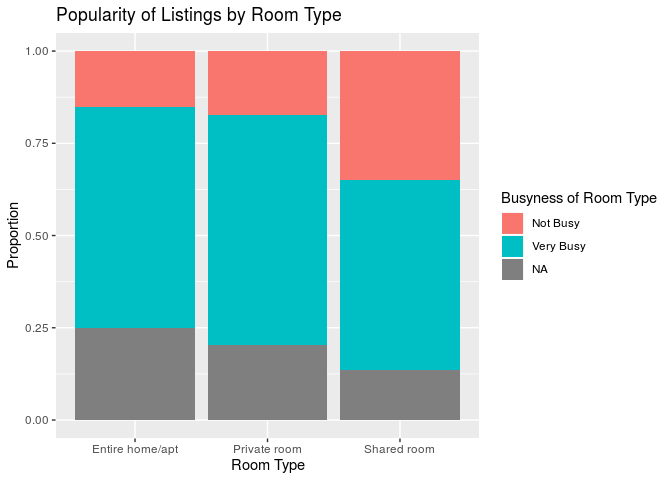
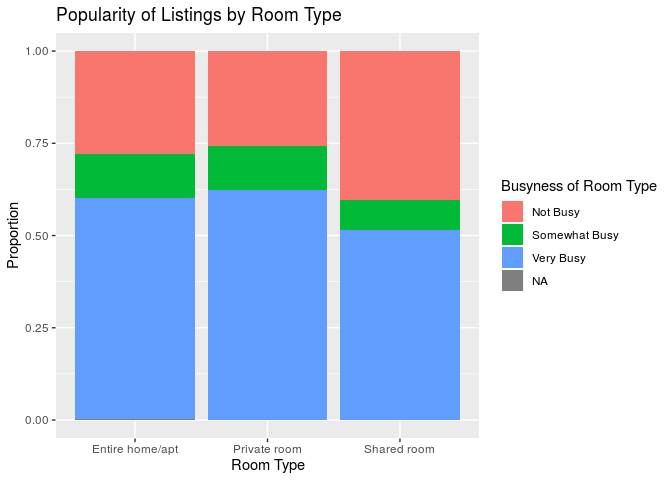
Final changes

diff --git a/proposal/proposal.md b/proposal/proposal.md
@@ -77,12 +77,8 @@ Uploaded the Airbnb data set from Kaggle via a csv file:
 abnb <- read_csv("AB_NYC_2019.csv")
 ```
 
-LOCATION AND PRICE:
-
-Univariate Borough Count (Visualization):
-
 Creating a histogram that displays number of listings by neighborhood
-borough in New York City.
+borough in New York City:
 
 ``` r
 ggplot(data = abnb, mapping = aes(x = neighbourhood_group)) +
@@ -100,10 +96,8 @@ Brooklyn and slightly more than 20,000 listings in Manhattan. The Queens
 borough follows after with roughly 5,000 listings, followed by Bronx and
 Staten Island with fewer than 1,100 listings each.
 
-Univariate Borough Count (Summary):
-
 Creating summary statistics that will count the number of listings in
-each neighborhood group.
+each neighborhood group:
 
 ``` r
 abnb %>%
@@ -125,14 +119,14 @@ listings, followed by Queens at 5,666, Bronx at 1,091, and Staten Island
 last at only 373 listings.
 
 Creating a facet histogram that will display the price of listings by
-borough.
+borough:
 
 ``` r
 abnb %>%
   ggplot(mapping = aes(x = price)) +
   geom_histogram(bins=35) +
   facet_wrap(.~neighbourhood_group) +
-  labs(title = "Price of Listings by Borough", x = "Price", y = "Count")
+  labs(title = "Price of Listings by Borough", x = "Price ($)", y = "Count")
 ```
 
 ![](proposal_files/figure-gfm/price-borough-1.png)<!-- -->
@@ -201,7 +195,7 @@ longitude co-ordinates:
 abnb %>%
   ggplot(mapping = aes (x = longitude, y = latitude, color = price)) +
   geom_point(alpha = 0.3) +
-  labs(title = "Prices at Latitude and Longitude Co-ordinates", x = "Longitude", y = "Latitude")
+  labs(title = "Prices at Latitude and Longitude Coordinates", x = "Longitude", y = "Latitude")
 ```
 
 ![](proposal_files/figure-gfm/price-at-longtitude-1.png)<!-- -->
@@ -209,8 +203,6 @@ abnb %>%
 Most listings take place in the (-74, -73.7) longtitude region and
 (40.55, 40.9) latitude region. Prices are generally in the 50 to 150
 range.
-
-LISTING DETAILS AND AVAILABILITY
 
 Creating a histogram that describes the number of days a listing is
 available in a year:
@@ -263,8 +255,7 @@ abnb %>%
     med_availability_365 = median(availability_365), 
     IQR_availability_365 = IQR(availability_365)
     ) %>%
-  arrange(desc(med_availability_365)) %>%
-  head(5)
+  arrange(desc(med_availability_365))
 ```
 
     ## # A tibble: 3 x 3
@@ -279,15 +270,15 @@ room, and 42 days for entire home/apartment. The range for shared room
 type is the highest with 341 days.
 
 Creating a new variable mutate to use availibility as a index of
-popularity of the listing based on “busy”, “not busy” and “NA”.
-Visualizing this data using a segmented barplot:
+popularity of the listing based on “busy”, “not busy”, “Somewhat Busy”,
+and “NA”. Visualizing this data using a segmented barplot:
 
 ``` r
 abnb %>%
   mutate(avail = case_when(
     availability_365 < 100            ~ "Very Busy",
-    availability_365 < 200 && availability_365 > 100  ~ "Somewhat Busy",
-    availability_365 > 300    ~ "Not Busy",)
+    availability_365 < 200 & availability_365 > 100  ~ "Somewhat Busy",
+    availability_365 > 200    ~ "Not Busy",)
     ) %>%
 ggplot(mapping = aes(x = room_type, fill = avail)) +
   geom_bar(position = "fill") +
@@ -299,10 +290,12 @@ ggplot(mapping = aes(x = room_type, fill = avail)) +
 ![](proposal_files/figure-gfm/prop-of-avail-1.png)<!-- -->
 
 The stacked bar graph above shows the proprotion of listings based on
-room type that are either not busy, very busy, or have no data (NAs).
+room type that are either not busy, very busy, somewhat busy, or have no
+data (NAs).
+
 According to the graph, all entire home, private rooms, shared room
 listing types are generally mostly very busy at roughly 60% while only
-roughly 20% across the charts are not busy. Shared rooms are generally
+roughly 30% across the charts are not busy. Shared rooms are generally
 less busy than private rooms and entire home/apt listings.
 
 Creating a facet scatterplot that will display the busyness of different
@@ -312,13 +305,13 @@ room types:
 abnb %>%
   mutate(avail = case_when(
     availability_365 < 100            ~ "Very Busy",
-    availability_365 >= 100 & availability_365 <= 300  ~ "Somewhat Busy",
-    availability_365 > 300    ~ "Not Busy",)
+    availability_365 < 200 & availability_365 > 100  ~ "Somewhat Busy",
+    availability_365 > 200    ~ "Not Busy",)
     ) %>%
 ggplot(mapping = aes(x = calculated_host_listings_count, y = reviews_per_month)) +
   geom_point() +
   facet_grid(room_type ~ avail) +
-  labs(title = "", x = "", y = "")
+  labs(title = "Host Listings vs. Reviews Frequency by Availability & Room Type", x = "Number of Listings (per host)", y = "Number of Reviews (per month)")
 ```
 
     ## Warning: Removed 10052 rows containing missing values (geom_point).
@@ -356,7 +349,9 @@ relative to its borough).
 
 To complete this research we will use the location variables
 (neighbourhood, neighbourhood\_group, and latitude longitude) as
-predictors variables and price will be the response variable.
+predictors variables and price will be the response variable. It is
+hypothesized that Airbnbs closer to Manhattan are expected, on average,
+to be listed for a higher price.
 
 In addition to location and price, we wanted to explore which factors
 made certain Airbnb listings more popular than others. We decided that
@@ -369,13 +364,13 @@ question: “How does the way in which a property is listed (type of room,
 for example) influence the availability of a listing?”
 
 When looking at a histogram of the availability variable (the fourth
-visualization) we can clearly see that the majority of listings are only
-available from 0-50 days out of the year and the distribution was
+visualization), we can clearly see that the majority of listings are
+only available from 0-50 days out of the year and the distribution was
 heavily skewed right. Looking at how the variable “room\_type” affects
 the availability of the listing shows that rooms that are considered
 “shared rooms” have the largest IQR and highest median availability.
-This is not surprising considering a shared room is likely the least
-desired of the three room types.
+Initially, it is hypothesized that a shared room is likely the least
+desired of the three room types and therefore has the most availability.
 
 To complete this analysis we would use the room type, minimum nights and
 price as predictor variables and availability as the response variable
